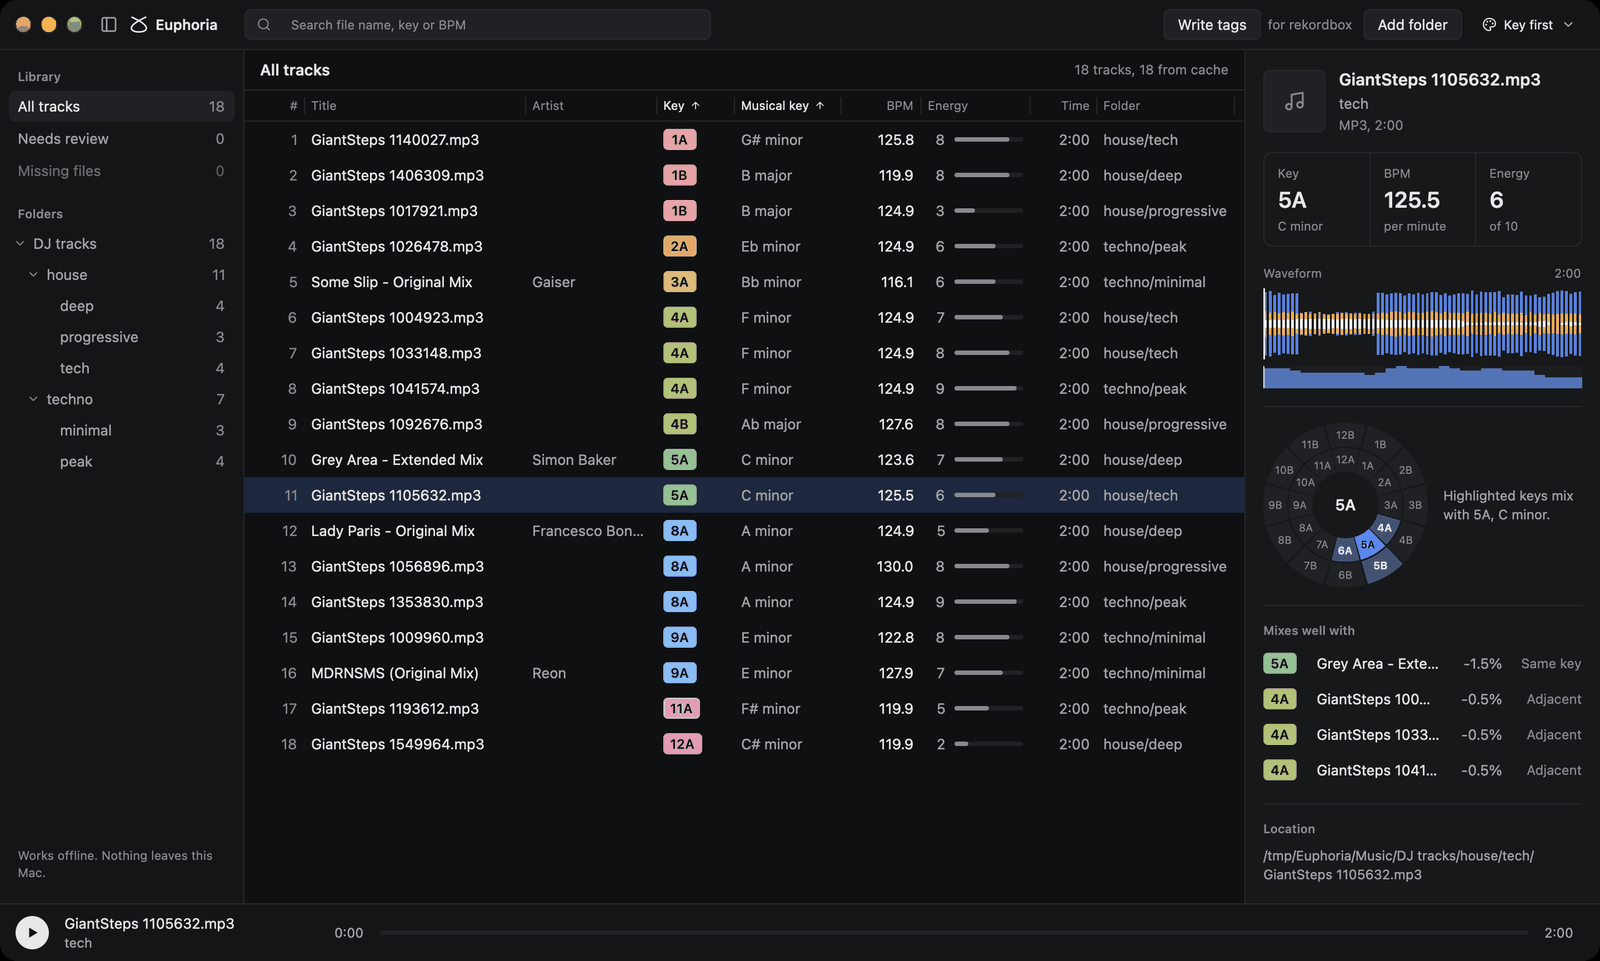
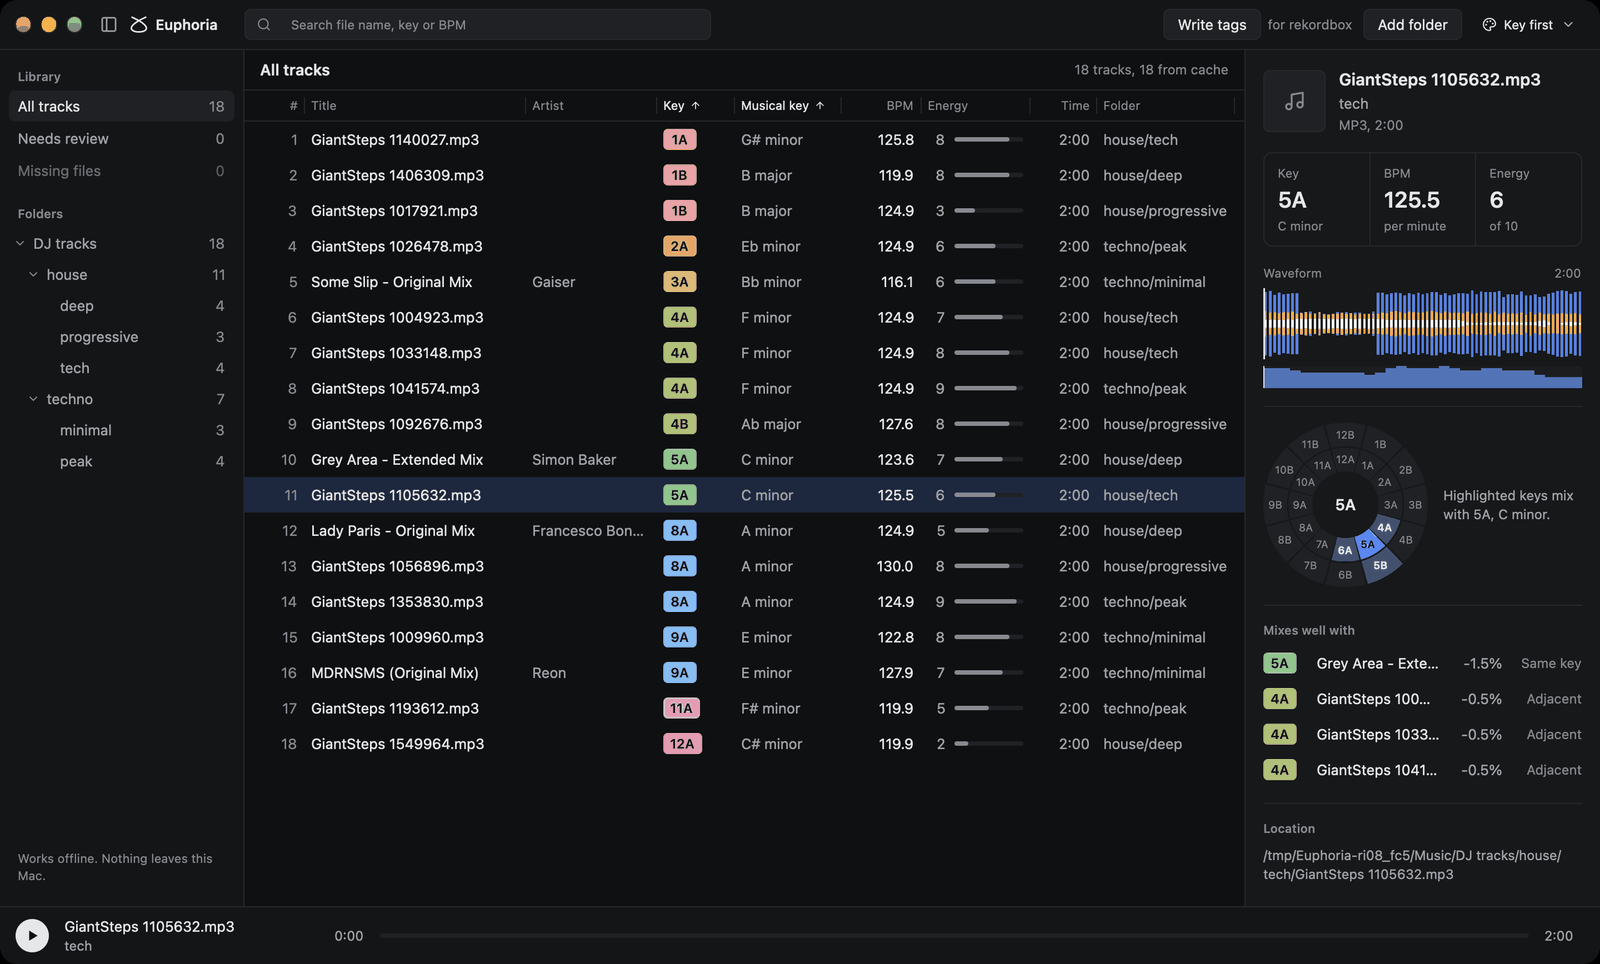
fix(docs): make each screenshot run private and check every step
make_screenshots.py now works in a private folder of its own made by mkdtemp under /tmp and deletes only that, so no other run's or user's files are touched; /tmp keeps the path shown in the inspector free of personal names. Every key press is checked, the window is captured only once it has stopped changing, within a time limit, and each shot is checked before it is kept: another track must be selected, or a panel must dim the window. The track to show is reached from the first row, so every run selects the same one.

diff --git a/docs/images/desktop-app/make_screenshots.py b/docs/images/desktop-app/make_screenshots.py
@@ -30,10 +30,11 @@ import signal
 import sqlite3
 import subprocess
 import sys
+import tempfile
 import time
 from pathlib import Path
 
-from PIL import Image
+from PIL import Image, ImageChops, ImageStat
 
 IMAGES = Path(__file__).resolve().parent
 REPOSITORY = IMAGES.parents[2]
@@ -53,27 +54,44 @@ FOLDERS = [
 # scale and reduced to this.
 PUBLISHED_WIDTH = 1600
 
-# The work folder. Its path shows in the inspector's Location, so it is a
-# short neutral one rather than a temporary folder named after the user.
-WORK = Path("/tmp/Euphoria")
-WORK_MARKER = ".made-by-make_screenshots"
+# Where each run makes its own private work folder. Its path shows in the
+# inspector's Location, so it is a short neutral one under /tmp, such as
+# /tmp/Euphoria-x1y2z3, rather than a temporary folder whose path names the
+# user.
+WORK_PARENT = "/tmp"
+WORK_PREFIX = "Euphoria-"
+
+# How long to wait for the window to settle, and how often to look.
+SETTLE_PATIENCE_SECONDS = 60.0
+SETTLE_INTERVAL_SECONDS = 0.75
+# Mean difference per channel, out of 255, under which two looks at the
+# window count as the same.
+SETTLED_DIFFERENCE = 0.05
+# Mean difference in the inspector that shows another track was selected.
+SELECTION_CHANGED_DIFFERENCE = 1.0
+# How much darker the sidebar must get when a panel covers the window.
+PANEL_DIMMING = 0.8
 
 # Virtual key codes, and the keys pressed before each shot.
 KEY_A = 0
 KEY_T = 17
 KEY_DOWN = 125
-SELECT_A_TAGGED_TRACK = [(KEY_DOWN, "")] * 2
-SELECT_A_TRACK_SORTED_BY_KEY = [(KEY_DOWN, "")] * 10
+KEY_HOME = 115
+# Home goes to the first row whichever track the app selected on its own,
+# so the same row is reached on every run.
+SELECT_A_TAGGED_TRACK = [(KEY_HOME, "")] + [(KEY_DOWN, "")] * 2
+SELECT_A_TRACK_SORTED_BY_KEY = [(KEY_HOME, "")] + [(KEY_DOWN, "")] * 10
 OPEN_WRITE_TAGS = [(KEY_A, "cmd"), (KEY_T, "cmd,shift")]
+
+# What each set of keys must visibly do before its shot is taken.
+SELECTS_ANOTHER_TRACK = "selects another track"
+OPENS_A_PANEL = "opens a panel"
 
 
 def main():
-    if WORK.exists() and not (WORK / WORK_MARKER).exists():
-        sys.exit(f"{WORK} exists and was not made by this script; move it away first")
-    shutil.rmtree(WORK, ignore_errors=True)
-    WORK.mkdir()
-    (WORK / WORK_MARKER).touch()
-    work = WORK
+    # A folder of its own, made private by mkdtemp, so a second run or
+    # someone else's files in /tmp are never touched; only it is deleted.
+    work = Path(tempfile.mkdtemp(prefix=WORK_PREFIX, dir=WORK_PARENT))
     try:
         window_tool = compile_window_tool(work)
         app = app_binary()
@@ -85,20 +103,32 @@ def main():
         warm_cache(app, window_tool, cache_folder, library, track_count(library))
 
         shots = [
-            ("main-window", {"theme": "slate", "selected": house}, SELECT_A_TAGGED_TRACK),
+            (
+                "main-window",
+                {"theme": "slate", "selected": house},
+                SELECT_A_TAGGED_TRACK,
+                SELECTS_ANOTHER_TRACK,
+            ),
             (
                 "main-window-paper",
                 {"theme": "paper", "selected": house},
                 SELECT_A_TAGGED_TRACK,
+                SELECTS_ANOTHER_TRACK,
             ),
-            ("write-tags-preview", {"theme": "slate", "selected": house}, OPEN_WRITE_TAGS),
+            (
+                "write-tags-preview",
+                {"theme": "slate", "selected": house},
+                OPEN_WRITE_TAGS,
+                OPENS_A_PANEL,
+            ),
             (
                 "key-first",
                 {"theme": "key-first", "selected": None},
                 SELECT_A_TRACK_SORTED_BY_KEY,
+                SELECTS_ANOTHER_TRACK,
             ),
         ]
-        for name, choices, keys in shots:
+        for name, choices, keys, expected in shots:
             data = work / "data" / name
             data.mkdir(parents=True)
             # The database and its write ahead log, which holds the latest
@@ -106,8 +136,8 @@ def main():
             for part in cache_folder.glob("analysis-cache.sqlite3*"):
                 shutil.copy(part, data)
             write_settings(data, library, expanded, **choices)
-            capture(app, window_tool, data, work / f"{name}.png", keys)
-            publish(work / f"{name}.png", IMAGES / f"{name}.png")
+            capture(app, window_tool, data, work / name, keys, expected)
+            publish(work / name / "shot.png", IMAGES / f"{name}.png")
             print(f"wrote {IMAGES / f'{name}.png'}")
     finally:
         shutil.rmtree(work, ignore_errors=True)
@@ -183,6 +213,8 @@ def window_number(window_tool, process, patience=60.0):
     """The number of the app's window once it is on screen."""
     deadline = time.monotonic() + patience
     while time.monotonic() < deadline:
+        if process.poll() is not None:
+            raise RuntimeError(f"the app exited with status {process.returncode}")
         result = subprocess.run(
             [str(window_tool), "id", str(process.pid)], capture_output=True, text=True
         )
@@ -219,22 +251,90 @@ def analysis_count(database):
         return 0
 
 
-def capture(app, window_tool, data, image, keys):
+def capture(app, window_tool, data, folder, keys, expected):
+    """Waits for the window to settle, presses `keys`, waits for it to
+    settle again, checks that the keys did what was `expected`, and keeps the
+    last look at the window as the shot. Fails rather than keep a shot of
+    the wrong state."""
+    folder.mkdir()
     process = launch(app, data)
     try:
-        window_number(window_tool, process)
-        # Time for the table to fill from the cache.
-        time.sleep(6.0)
+        before = wait_until_settled(window_tool, process, folder / "before.png")
         for code, flags in keys:
-            subprocess.run([str(window_tool), "key", str(process.pid), str(code), flags])
-            time.sleep(0.5)
-        # Time for the selected track's waveform and energy curve to be
-        # worked out, or for the write preview to be planned.
-        time.sleep(5.0)
-        number = window_number(window_tool, process)
-        subprocess.run(["screencapture", "-x", "-o", "-l", number, str(image)], check=True)
+            subprocess.run(
+                [str(window_tool), "key", str(process.pid), str(code), flags], check=True
+            )
+            time.sleep(0.3)
+        after = wait_until_settled(window_tool, process, folder / "shot.png")
+        check_expected(before, after, expected, folder.name)
     finally:
         quit_app(process)
+
+
+def look(window_tool, process, image, patience=30.0):
+    """Captures the app's window, and only it, into `image`. A window that
+    is briefly off screen, as while the screen is locked, is waited for;
+    one that stays away fails."""
+    deadline = time.monotonic() + patience
+    while True:
+        number = window_number(window_tool, process)
+        result = subprocess.run(["screencapture", "-x", "-o", "-l", number, str(image)])
+        if result.returncode == 0 and image.exists():
+            with Image.open(image) as picture:
+                return picture.convert("RGB")
+        if time.monotonic() > deadline:
+            raise RuntimeError(f"the window could not be captured: status {result.returncode}")
+        time.sleep(1.0)
+
+
+def difference(first, second):
+    """Mean difference per channel between two looks, out of 255."""
+    if first.size != second.size:
+        return 255.0
+    return sum(ImageStat.Stat(ImageChops.difference(first, second)).mean) / 3.0
+
+
+def wait_until_settled(window_tool, process, image):
+    """Looks at the window until two looks in a row are the same: the
+    table has filled, the waveform and energy curve are drawn, or the panel
+    has been worked out. Fails after SETTLE_PATIENCE_SECONDS."""
+    deadline = time.monotonic() + SETTLE_PATIENCE_SECONDS
+    previous = look(window_tool, process, image)
+    while time.monotonic() < deadline:
+        time.sleep(SETTLE_INTERVAL_SECONDS)
+        current = look(window_tool, process, image)
+        if difference(previous, current) < SETTLED_DIFFERENCE:
+            return current
+        previous = current
+    raise RuntimeError("the window kept changing and never settled")
+
+
+def region(picture, left, top, right, bottom):
+    """The part of `picture` between the given fractions of its size."""
+    width, height = picture.size
+    return picture.crop((int(left * width), int(top * height), int(right * width), int(bottom * height)))
+
+
+def brightness(picture):
+    return sum(ImageStat.Stat(picture).mean) / 3.0
+
+
+def check_expected(before, after, expected, name):
+    if expected == SELECTS_ANOTHER_TRACK:
+        # The title, the statistics and the waveform at the top of the
+        # inspector change with the track.
+        inspector = (0.8, 0.05, 1.0, 0.4)
+        changed = difference(region(before, *inspector), region(after, *inspector))
+        if changed < SELECTION_CHANGED_DIFFERENCE:
+            raise RuntimeError(f"{name}: the keys did not select another track")
+    elif expected == OPENS_A_PANEL:
+        # A panel dims the whole window behind it, the sidebar included.
+        sidebar = (0.0, 0.1, 0.12, 0.5)
+        dimmed = brightness(region(after, *sidebar)) / max(brightness(region(before, *sidebar)), 1.0)
+        if dimmed > PANEL_DIMMING:
+            raise RuntimeError(f"{name}: the keys did not open the panel")
+    else:
+        raise ValueError(expected)
 
 
 def publish(captured, published):
